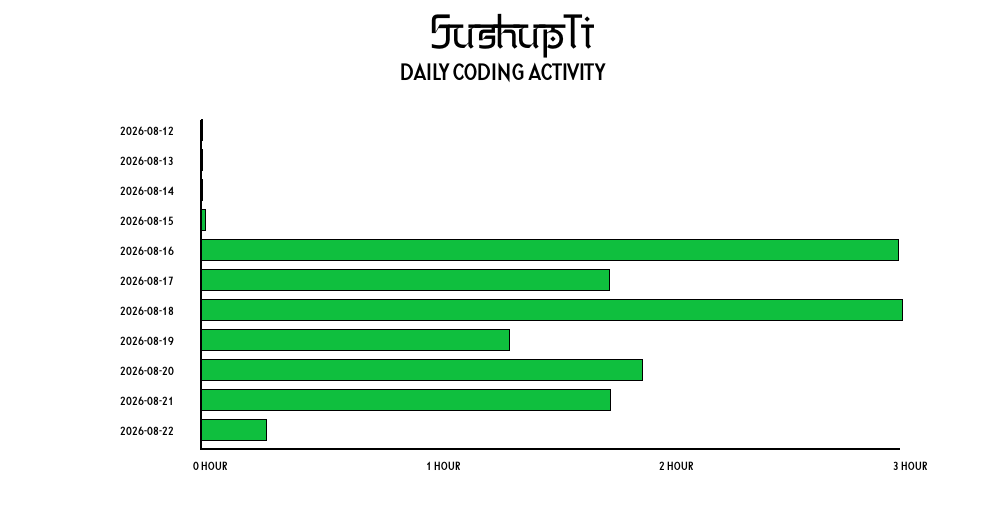
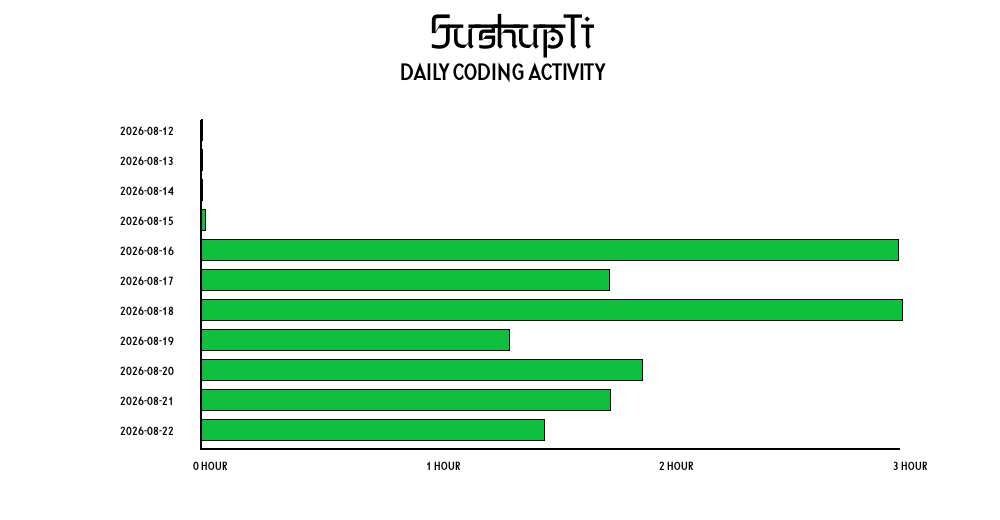
bro doing anything rather then fixing hardcoded TUI

Changed region(s): [[0.248, 0.8, 0.558, 0.8615]]

diff --git a/tui.go b/tui.go
@@ -154,8 +154,9 @@ func renderOverview(daily []DailyStat) string {
 
 func renderProjects(daily []DailyStat) string {
 	most := mostUsedProject(daily)
-	editor := mostUsedEditor(daily)
-	lang := mostUsedlang(daily)
+	projectTIme := projectTotalTime(daily, most.ProjectName)
+	projectShare := projectShareCalc(daily, projectTIme)
+
 	projectsTitle := lipgloss.NewStyle().
 		Bold(true).
 		Foreground(lipgloss.Color("4")).
@@ -166,24 +167,14 @@ func renderProjects(daily []DailyStat) string {
 		Foreground(lipgloss.Color("1")).
 		Render(most.ProjectName)
 
-	editorName := lipgloss.NewStyle().
-		Bold(true).
-		Foreground(lipgloss.Color("1")).
-		Render(editor.Name)
-
-	langName := lipgloss.NewStyle().
-		Bold(true).
-		Foreground(lipgloss.Color("1")).
-		Render(lang.Name)
-
-	time := fmt.Sprintf("%dh %02dm", most.TotalSeconds/3600, (most.TotalSeconds%3600)/60)
+	shareTxt := fmt.Sprintf("%.1f%%", projectShare)
 
 	right := "  ┌────────────────────────────────────────────┐\n"
 	right += "  │  " + projectsTitle + "                                  │\n"
 	right += "  │  ──────────────────────────────────────────│\n"
-	right += "  │  Most Hours  " + mostprojName + "  " + time + "                │\n"
-	right += "  │  Best Editor  " + editorName + "  " + "                           │\n"
-	right += "  │  Best Lang  " + langName + "  " + "                             │\n"
+	right += "  │  Most Hours  " + mostprojName + "  " + "                      │\n"
+	right += "  │  Total Time  " + fmt.Sprintf("%dh %02dm", projectTIme/3600, (projectTIme%3600)/60) + "                        │\n"
+	right += "  │  Share       " + shareTxt + "                         │\n"
 	right += "  └────────────────────────────────────────────┘\n"
 
 	return right

diff --git a/extraFunc.go b/extraFunc.go
@@ -81,3 +81,31 @@ func mostUsedlang(daily []DailyStat) Category {
 
 	return most
 }
+
+func projectTotalTime(daily []DailyStat, projectName string) int {
+	total := 0
+	for _, day := range daily {
+		for _, project := range day.Projects {
+			if project.ProjectName == projectName {
+				total += project.TotalSeconds
+			}
+		}
+	}
+
+	return total
+}
+
+func projectShareCalc(daily []DailyStat, projectTime int) float64 {
+	total := 0
+	for _, day := range daily {
+		total += day.TotalSeconds
+	}
+
+	share := 0.0
+
+	if total > 0 {
+		share = float64(projectTime) / float64(total) * 100
+	}
+
+	return share
+}
